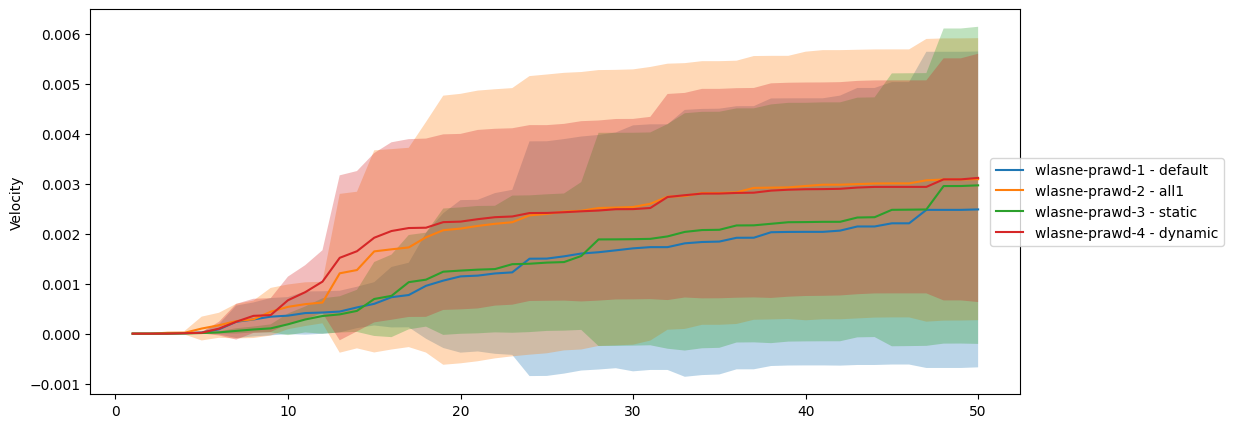
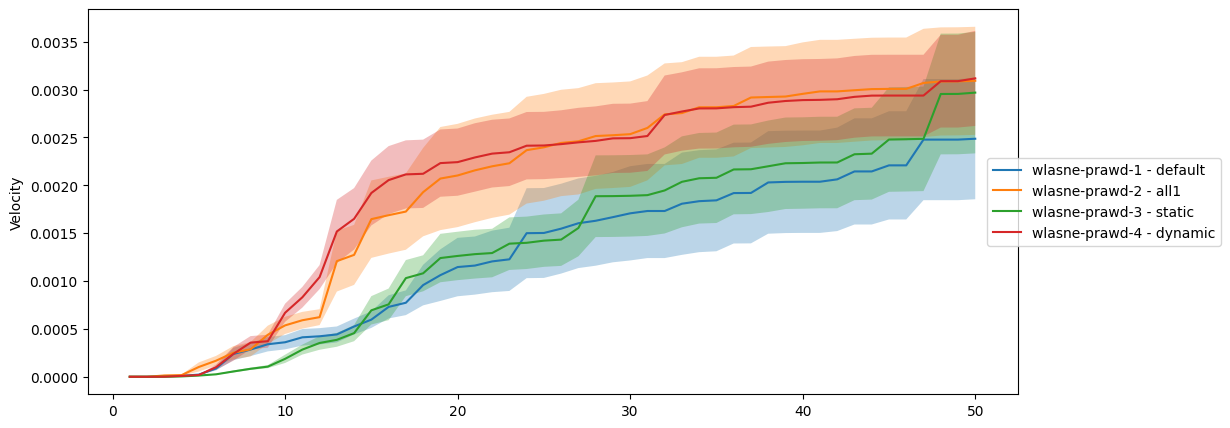
fix lab-3

diff --git a/src/commands/command.py b/src/commands/command.py
@@ -3,7 +3,7 @@ import subprocess
 import sys
 from typing import Literal, Any, Callable
 
-from constants import constants
+from src.constants import constants
 
 OptimizationTarget = Literal[
   'vertpos', 'velocity', 'distance', 'vertvel', 'lifespan', 'numjoints', 'numparts', 'numneurons', 'numconnections'
@@ -37,7 +37,7 @@ class Command(object):
   parameter_scheduler_factor: float | None = None
 
   def __iter__(self):
-    def with_optional_flags(initial: list[str], *flags: tuple[str, Any, Callable[Any, str]]):
+    def with_optional_flags(initial: list[str], *flags: tuple[str, Any, Callable[[Any], str]]):
       for (name, value, *args) in flags:
         if value is None: continue
         converter = str if len(args) == 0 else args[0]

diff --git a/lab-3-plots.py b/lab-3-plots.py
@@ -5,8 +5,8 @@ from matplotlib.pyplot import colormaps
 import numpy as np
 
 from figures import ensure_directory
-import resources
-from resources.models import SaveRecord
+import src.resources as resources
+from src.resources.models import SaveRecord
 
 
 def add(a: float, b: float) -> float: return a + b
@@ -101,6 +101,11 @@ def aggregated(records: list[SaveRecord]):
   ticks = range(1, generations + 1)
   for (representation, (averages, stddevs)) in representations.items():
     plt.plot(ticks, averages, label=representation)
+    stddevs = [
+      stddev / 5
+      for stddev in stddevs
+    ]
+
     plt.fill_between(
       ticks,
       dif(averages, stddevs),

diff --git a/src/resources/resources.py b/src/resources/resources.py
@@ -6,8 +6,8 @@ from typing import TypeVar, Literal
 
 from dacite import from_dict
 
-from constants import ResourceDirectory
-from serializer import json_serialize, json_deserialize, text_serialize, text_deserialize
+from ..constants import ResourceDirectory
+from ..serializer import json_serialize, json_deserialize, text_serialize, text_deserialize
 
 T = TypeVar('T')
 Format = Literal['json', 'text', 'gen']

diff --git a/src/resources/models/savefile.py b/src/resources/models/savefile.py
@@ -1,7 +1,7 @@
 from dataclasses import dataclass
 from typing import Any
 
-from commands.command import OptimizationTarget
+from src.commands.command import OptimizationTarget
 
 @dataclass
 class Individual(object):
